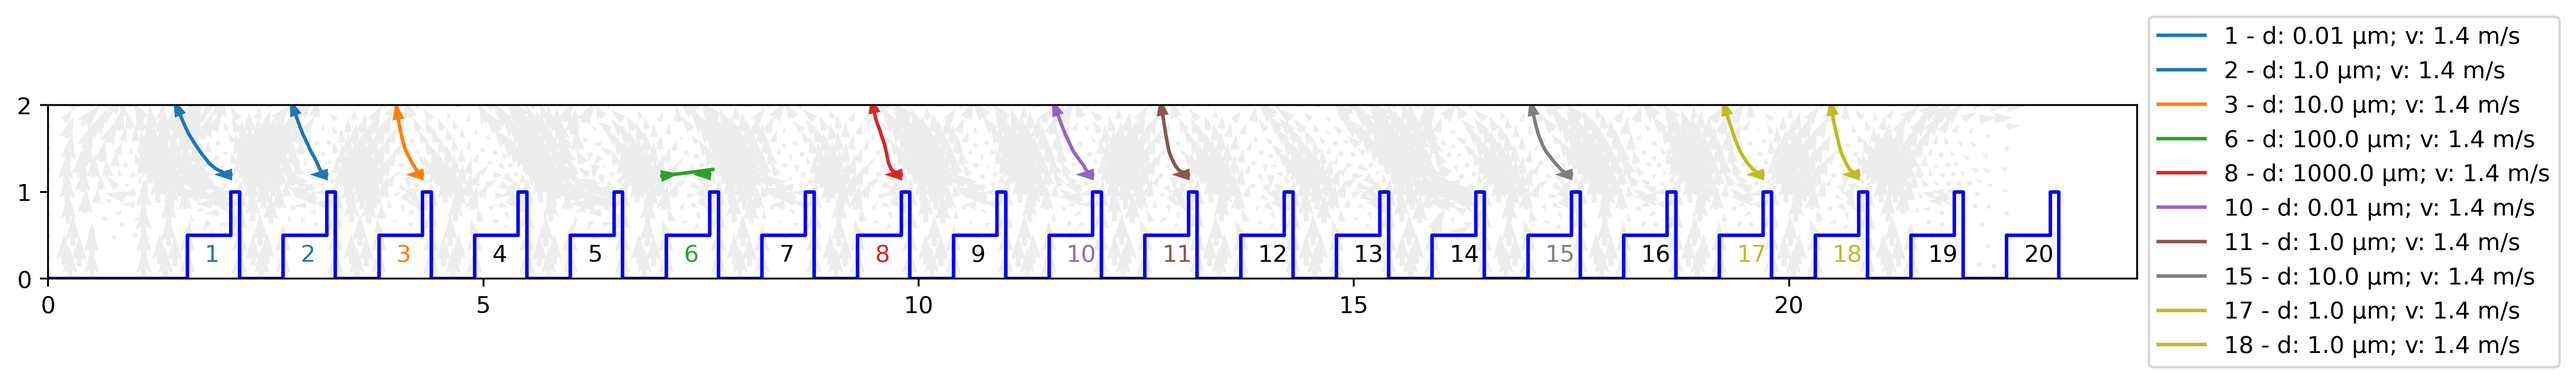
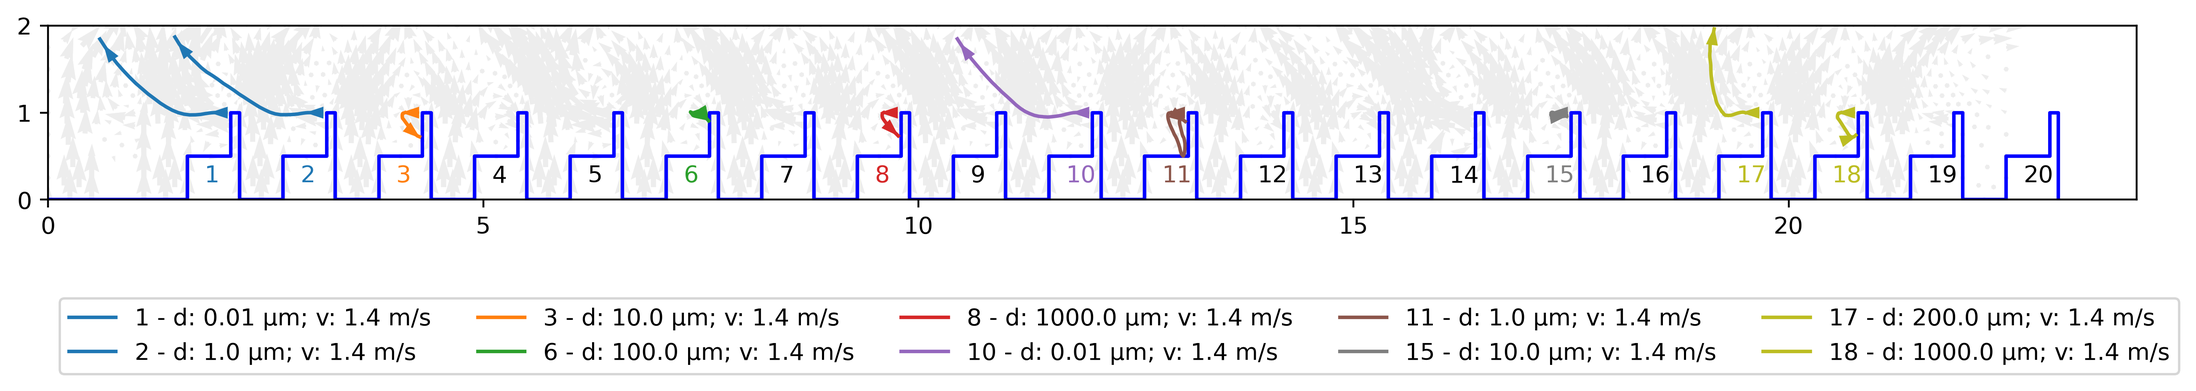
plotted breathing

diff --git a/spyder/main.py b/spyder/main.py
@@ -26,8 +26,7 @@ from experiment_files import files
 from progress.bar import Bar
 
 experiment_time = 10
-delta_t = 0.0001
-total_seats = 20
+delta_t = 1e-5
 
 color_map = plt.cm.ScalarMappable(cmap=cm.tab10, norm=plt.Normalize(0, len(passengers)))
 
@@ -51,14 +50,14 @@ def air_velocity_field(pos):
     #u_y = stream_traces.iloc[(stream_traces['Points:1']-pos[1]).abs().argsort()[:1]]['U:1'].values[0]
     return [u_x, u_y]
 
-for file in files[:1]: 
+for file in files: 
     fig, ax = plt.subplots(figsize=(16,5))
     fig.set_dpi(400)
     ax.set_xlim([0, 24])
     ax.set_ylim([0, train_height])
     ax.set_aspect('equal', adjustable='box')
     
-    [x_train, y_train] = build_train_coordinates(total_seats)
+    [x_train, y_train] = build_train_coordinates(len(passengers))
     ax.plot(x_train,y_train, color='blue')
     collision_detection_initialised = collision_detection_init(x_train, y_train)
     
@@ -105,5 +104,5 @@ for file in files[:1]:
     stream_traces_downsampled = stream_traces[['Points:0', 'Points:1', 'U:0', 'U:1']].sample(n=1000)
     #ax.quiver(stream_traces_downsampled['Points:0'], stream_traces_downsampled['Points:1'], stream_traces_downsampled['U:0'], stream_traces_downsampled['U:1'], color='#adadad', zorder=0)
     ax.quiver(stream_traces['Points:0'], stream_traces['Points:1'], stream_traces['U:0'], stream_traces['U:1'], color='#ededed', zorder=0)
-    ax.legend(loc='center left', bbox_to_anchor=(1, 0.5))
+    ax.legend(loc='upper left', bbox_to_anchor=(0, -0.5), ncol=5)
     plt.savefig('./output/'+file['name'] + '_' + str(delta_t) +'.png',  bbox_inches="tight")

diff --git a/spyder/passengers.py b/spyder/passengers.py
@@ -81,7 +81,7 @@ passengers = [
         'person': 15,
         'type': 'cough',
         'd': [10e-6],
-        'v': [-1.2, 0.2]
+        'v': [-1.4, 0]
     },
     {
         'person': 16,
